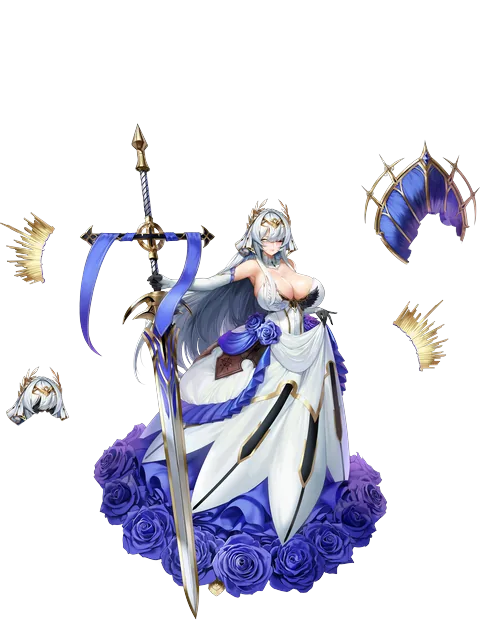
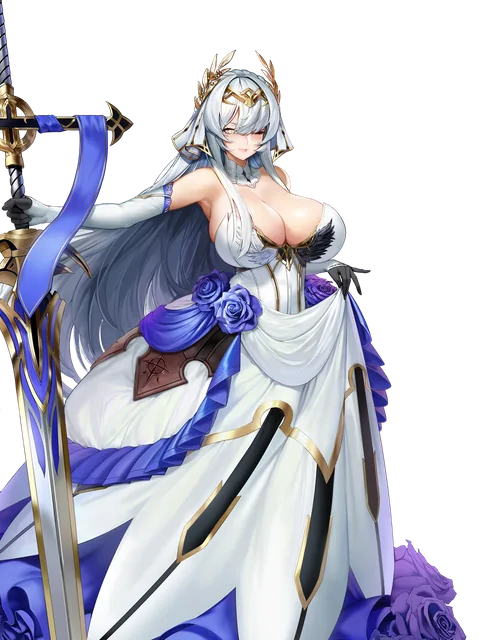
적 턴 미리보기 제거, 회피 표시 중복 수정, 카드 그림 3장 다시 생성
- 다음 적 턴 피해 미리보기(주황 숫자) 제거
- 공격이 회피될 때 예측 표시를 '빗나감'으로 바꿔 회피 상태 표시와 겹치지 않게
- 블라인드 프린세스·레모네이드 베타: 흩어진 조각을 지우고 다시 자름, 아라크네: 완성 일러스트로 교체
- 그림 버전과 오프라인 캐시 이름을 올려 바로 반영

diff --git a/js/ui_battle.js b/js/ui_battle.js
@@ -661,27 +661,14 @@ function refreshForecast() {
     const el = B.unitEls.get(uid); if (!el) return;
     const isMine = me.lanes.some(u => u && u.uid === uid);
     const f = $('.u-fc', el);
-    if (e.miss && !e.v) { f.className = 'u-fc show miss'; f.textContent = '회피'; return; }
+    if (e.miss && !e.v) { f.className = 'u-fc show miss'; f.textContent = '빗나감'; return; } // 회피 상태 표시와 겹치지 않게 결과로 적는다
     f.className = `u-fc show ${isMine ? 'self' : 'opp'}${mine.deadUids.has(uid) ? ' kill' : ''}`;
     f.textContent = isMine ? `받는 피해 -${e.v}` : `-${e.v}`; // 내 전투원이 받는 피해는 반격·격파 효과 등 여러 가지라 이름을 붙이지 않는다
   });
   if (mine.cmdDmg > 0) {
     const f = $('#cmd-enemy .cm-fc'); f.className = `cm-fc show${mine.lethal ? ' lethal' : ''}`; f.textContent = mine.lethal ? `-${mine.cmdDmg} 격파!` : `-${mine.cmdDmg}`;
   }
-  // 다음 적 턴 위협: 내 전투를 먼저 치른 뒤의 보드 기준
-  const after = game.clone(); after.phase = 'combat'; after.resolveCombat();
-  if (after.phase === 'over') return;
-  const threat = after.forecast(after.players[game.players.indexOf(ai)]);
-  if (threat.cmdDmg > 0) {
-    const f = $('#cmd-me .cm-fc'); f.className = `cm-fc show warn${threat.lethal ? ' lethal' : ''}`; f.textContent = `적 턴 -${threat.cmdDmg}${threat.lethal ? ' 위험!' : ''}`;
-  }
-  const tsum = new Map();
-  threat.hits.forEach(hh => { if (hh.toUid !== 'cmd' && me.lanes.some(u => u && u.uid === hh.toUid)) tsum.set(hh.toUid, (tsum.get(hh.toUid) || 0) + hh.v); });
-  tsum.forEach((v, uid) => {
-    const el = B.unitEls.get(uid); if (!el) return; const f = $('.u-fc', el);
-    if (f.classList.contains('show') || !v) return;
-    f.className = `u-fc show self${threat.deadUids.has(uid) ? ' kill' : ''}`; f.textContent = `적 턴 -${v}`;
-  });
+  // 다음 적 턴 피해 미리보기는 표시하지 않는다 (화면이 복잡하다는 의견에 따라 뺐다. 위험한 경우는 전술 팁으로만 알린다)
 }
 
 function drawArrows() {

diff --git a/index.html b/index.html
@@ -15,8 +15,8 @@
 <link rel="icon" href="favicon.ico">
 <link rel="apple-touch-icon" href="assets/ui/icon-192.png">
 <link rel="manifest" href="manifest.webmanifest">
-<link rel="stylesheet" href="css/style.css?v=72">
-<link rel="stylesheet" href="css/lo_skin.css?v=72">
+<link rel="stylesheet" href="css/style.css?v=73">
+<link rel="stylesheet" href="css/lo_skin.css?v=73">
 </head>
 <body>
 <div id="viewport">
@@ -41,21 +41,21 @@
   <div id="rotate-hint"><div class="rh-icon">⟳</div><div>가로 화면으로 돌려 주세요</div><small>이 게임은 가로 화면에 맞춰져 있습니다</small></div>
 </div>
 
-<script src="js/data.js?v=72"></script>
-<script src="js/engine.js?v=72"></script>
-<script src="js/ai.js?v=72"></script>
-<script src="js/campaign.js?v=72"></script>
-<script src="js/draft.js?v=72"></script>
-<script src="js/store.js?v=72"></script>
-<script src="js/voice_list.js?v=72"></script>
-<script src="js/audio.js?v=72"></script>
-<script src="js/ui_common.js?v=72"></script>
-<script src="js/ui_lobby.js?v=72"></script>
-<script src="js/ui_deck.js?v=72"></script>
-<script src="js/ui_campaign.js?v=72"></script>
-<script src="js/ui_battle.js?v=72"></script>
-<script src="js/ui_challenge.js?v=72"></script>
-<script src="js/tutorial.js?v=72"></script>
-<script src="js/main.js?v=72"></script>
+<script src="js/data.js?v=73"></script>
+<script src="js/engine.js?v=73"></script>
+<script src="js/ai.js?v=73"></script>
+<script src="js/campaign.js?v=73"></script>
+<script src="js/draft.js?v=73"></script>
+<script src="js/store.js?v=73"></script>
+<script src="js/voice_list.js?v=73"></script>
+<script src="js/audio.js?v=73"></script>
+<script src="js/ui_common.js?v=73"></script>
+<script src="js/ui_lobby.js?v=73"></script>
+<script src="js/ui_deck.js?v=73"></script>
+<script src="js/ui_campaign.js?v=73"></script>
+<script src="js/ui_battle.js?v=73"></script>
+<script src="js/ui_challenge.js?v=73"></script>
+<script src="js/tutorial.js?v=73"></script>
+<script src="js/main.js?v=73"></script>
 </body>
 </html>

diff --git a/js/tutorial.js b/js/tutorial.js
@@ -11,7 +11,7 @@ const TUTORIAL_STEPS = [
   { trigger: 'myTurn', text: '상대가 행동을 마쳤어. 이번 턴 AP는 2야. 다 쓰지 못한 AP는 <b>최대 2까지 다음 턴으로 이월</b>되니까 기억해 두렴.', spot: '#ap-me', box: [1080, 560] },
   { text: '이번엔 비용 2인 <b>하치코</b>를 골라 볼래? 레인 위에 <b>유리 ▲ / 불리 ▼</b>가 보일 거야. 경장 ▶ 기동 ▶ 중장 ▶ 경장 순으로 유리하고, 유리하면 피해가 1 늘어나.', spot: '.hand', box: [1380, 140], wait: 'cardSelected', cond: c => c.kind === 'unit' },
   { text: '좋아. 상성이 유리한 레인이나, 적이 없는 레인(상대 직격)에 놓아 보렴.', spot: '.lanes.me', box: [1380, 140], wait: 'cardPlayed' },
-  { text: '적 전투원과 상대 초상화 위의 <b>빨간 숫자</b>는 이번 턴 전투의 <b>예상 피해</b>야. ☠는 격파 예상이고, 주황색은 다음 상대 턴에 네가 받을 피해란다.', spot: '.lanes.enemy', box: [1380, 560] },
+  { text: '적 전투원과 상대 초상화 위의 <b>빨간 숫자</b>는 이번 턴 전투의 <b>예상 피해</b>야. ☠는 격파 예상이란다.', spot: '.lanes.enemy', box: [1380, 560] },
   { text: '<b>턴 종료</b> 버튼에 마우스를 올리면 공격 경로가 화살표로 보여. <b>보호기</b>는 양옆 레인을 지키고, <b>지원기</b>는 양옆 아군의 공격력을 1 올려 준단다.', spot: '.end-btn', box: [1380, 560] },
   { trigger: 'myTurn', text: '이번엔 <b>지원 카드</b>를 써 보자. 방금 뽑은 <b>야전 의료</b>를 고른 뒤, 빛나는 내 전투원을 누르렴. 그 전투원의 체력을 가득 채워 준단다.', spot: '.hand', box: [1380, 140], wait: 'cardPlayed',
     cond: c => c.kind === 'skill' && c !== COMMAND_CARD, can: () => B.me.units().length > 0 && B.me.hand.some(c => c.kind === 'skill' && B.me.canAfford(c)) },

diff --git a/js/ui_common.js b/js/ui_common.js
@@ -344,7 +344,7 @@ const HOWTO = [
     <h4>레인 전투</h4>전장은 좌익·중앙·우익 3개 레인입니다. 전투원은 <b>마주 보는 적 전투원</b>을 공격하고, 앞이 비어 있으면 <b>상대 라이프</b>를 직접 공격합니다.
     <h4>소환 대기</h4>전투원은 배치된 턴에는 공격하지 않습니다. <b>돌격</b> 키워드가 있으면 바로 공격합니다.
     <h4>보호</h4>앞이 비어 상대 라이프를 치려던 공격은 옆 레인의 보호기가 대신 받습니다. 마주 선 전투원끼리의 공격은 막지 않습니다.
-    <h4>전투 예측</h4>내 턴 동안 이번 전투에서 들어갈 피해가 적 유닛 위에 빨간 숫자로 표시됩니다. 다음 적 턴에 내가 받을 예상 피해는 주황색으로 표시됩니다. 턴 종료 버튼에 마우스를 올리면 공격 경로 화살표가 나타납니다.`],
+    <h4>전투 예측</h4>내 턴 동안 이번 전투에서 들어갈 피해가 적 유닛 위에 빨간 숫자로 표시됩니다. 내 전투원이 반격 등으로 받을 피해는 주황색으로 표시됩니다. 턴 종료 버튼에 마우스를 올리면 공격 경로 화살표가 나타납니다.`],
   ['상성과 역할', `
     <h4>병종 상성</h4>
     <div class="tri"><span class="tag type-L">경장</span> ▶ <span class="tag type-M">기동</span> ▶ <span class="tag type-H">중장</span> ▶ <span class="tag type-L">경장</span></div>

diff --git a/js/data.js b/js/data.js
@@ -243,7 +243,7 @@ TOKENS.forEach(u => { u.kind = 'unit'; CARDS[u.id] = u; });
 SKILLS.forEach(s => { s.kind = 'skill'; CARDS[s.id] = s; });
 // 덱 편성에 쓸 수 있는 카드 (적 전용·토큰 제외)
 const POOL = Object.values(CARDS).filter(c => !c.enemy && !c.token);
-const ART_VER = 5; // 아트를 다시 빌드하면 올려서 브라우저 캐시를 갱신한다
+const ART_VER = 6; // 아트를 다시 빌드하면 올려서 브라우저 캐시를 갱신한다
 function artOf(card) { return `assets/art/${card.art || card.id}.webp?v=${ART_VER}`; }
 function iconOf(card) { return card.icon ? `assets/skill/${card.icon}.png` : null; }
 function fullOf(card) { return `assets/full/${card.art || card.id}.webp?v=${ART_VER}`; }

diff --git a/sw.js b/sw.js
@@ -2,7 +2,7 @@
 // 코드(html·js·css)는 네트워크 우선이라 새 버전이 바로 반영된다.
 // 그림·소리·글꼴은 캐시에서 먼저 보여 주고, 뒤에서 새로 받아 캐시를 갱신한다 (같은 이름으로 고친 파일도 다음 방문에 반영).
 // 자원 구성을 크게 바꾸면 CACHE 이름을 올려 예전 캐시를 한 번에 지운다.
-const CACHE = 'lao-tcg-v5';
+const CACHE = 'lao-tcg-v6';
 const CODE = /\.(html|js|css|webmanifest)$|\/$/;
 
 // 설치할 때 precache.txt(배포 작업이 만든 목록)의 파일을 미리 받아 둔다. 첫 방문 뒤 바로 오프라인이 되어도 대국을 할 수 있게.

diff --git a/tools/build_art.py b/tools/build_art.py
@@ -28,6 +28,8 @@ OVERRIDE = {
     'IW_Speaker': 'FullbodyIMG_MP_Speaker_N.png',
     'IW_RocC': 'FullbodyIMG_MP_RocC_N.png',
     'IW_Parasite': 'FullbodyIMG_MP_Metal_Parasite_N.png',
+    # 기본(N) 일러스트는 로봇 부품이 흩어진 조립용 그림이라, 완성된 모습의 첫 스킨을 쓴다
+    'AGS_Arachne': 'FullbodyIMG_AGS_Arachne_NS1_Part1.png',
     'IW_Kidnapper': 'FullbodyIMG_MP_Kidnapper_N.png',
     'IW_Robert': 'FullbodyIMG_MP_Robert_N.png',
     'IW_MetalGuard': '2DModel_MP_MetalGuard.png',
@@ -38,9 +40,9 @@ OVERRIDE = {
 }
 
 # 초상 크롭 수동 보정: (cx 비율, top 비율, 폭 비율) — bbox 기준
-CROP_FIX = {}
+CROP_FIX = {'PECS_BlindPrincess': (0.62, 0.1, 0.5), 'AGS_Arachne': (0.56, 0.0, 0.62)}
 # 머리 기준 크롭 대신 전신을 3:4 캔버스에 맞춰 넣을 카드 (로봇·와이드 구도)
-FIT = {'AGS_Aeda', 'DS_KunoichiShiden', 'DS_Ramiel', 'PECS_BlindPrincess', 'PECS_Lumberjane', 'IW_NightChick', 'IW_Speaker', 'IW_RocC', 'IW_Parasite', 'IW_Kidnapper', 'IW_Robert', 'IW_Stalker'}
+FIT = {'AGS_Aeda', 'DS_KunoichiShiden', 'DS_Ramiel', 'PECS_Lumberjane', 'IW_NightChick', 'IW_Speaker', 'IW_RocC', 'IW_Parasite', 'IW_Kidnapper', 'IW_Robert', 'IW_Stalker'}
 
 
 # FullbodyImg에 완성본이 없어 2D 모델 폴더의 정식 일러스트를 쓰는 카드
@@ -133,7 +135,7 @@ def portrait(im, cid):
 
 
 # 전신 이미지에서 캐릭터와 떨어진 소품(드론 등)을 지우고 본체만 남길 카드
-MAIN_ONLY = {'PECS_Orangeade'}
+MAIN_ONLY = {'PECS_Orangeade', 'PECS_BlindPrincess', 'PECS_LemonadeBeta'}
 
 
 def keep_main(im):
